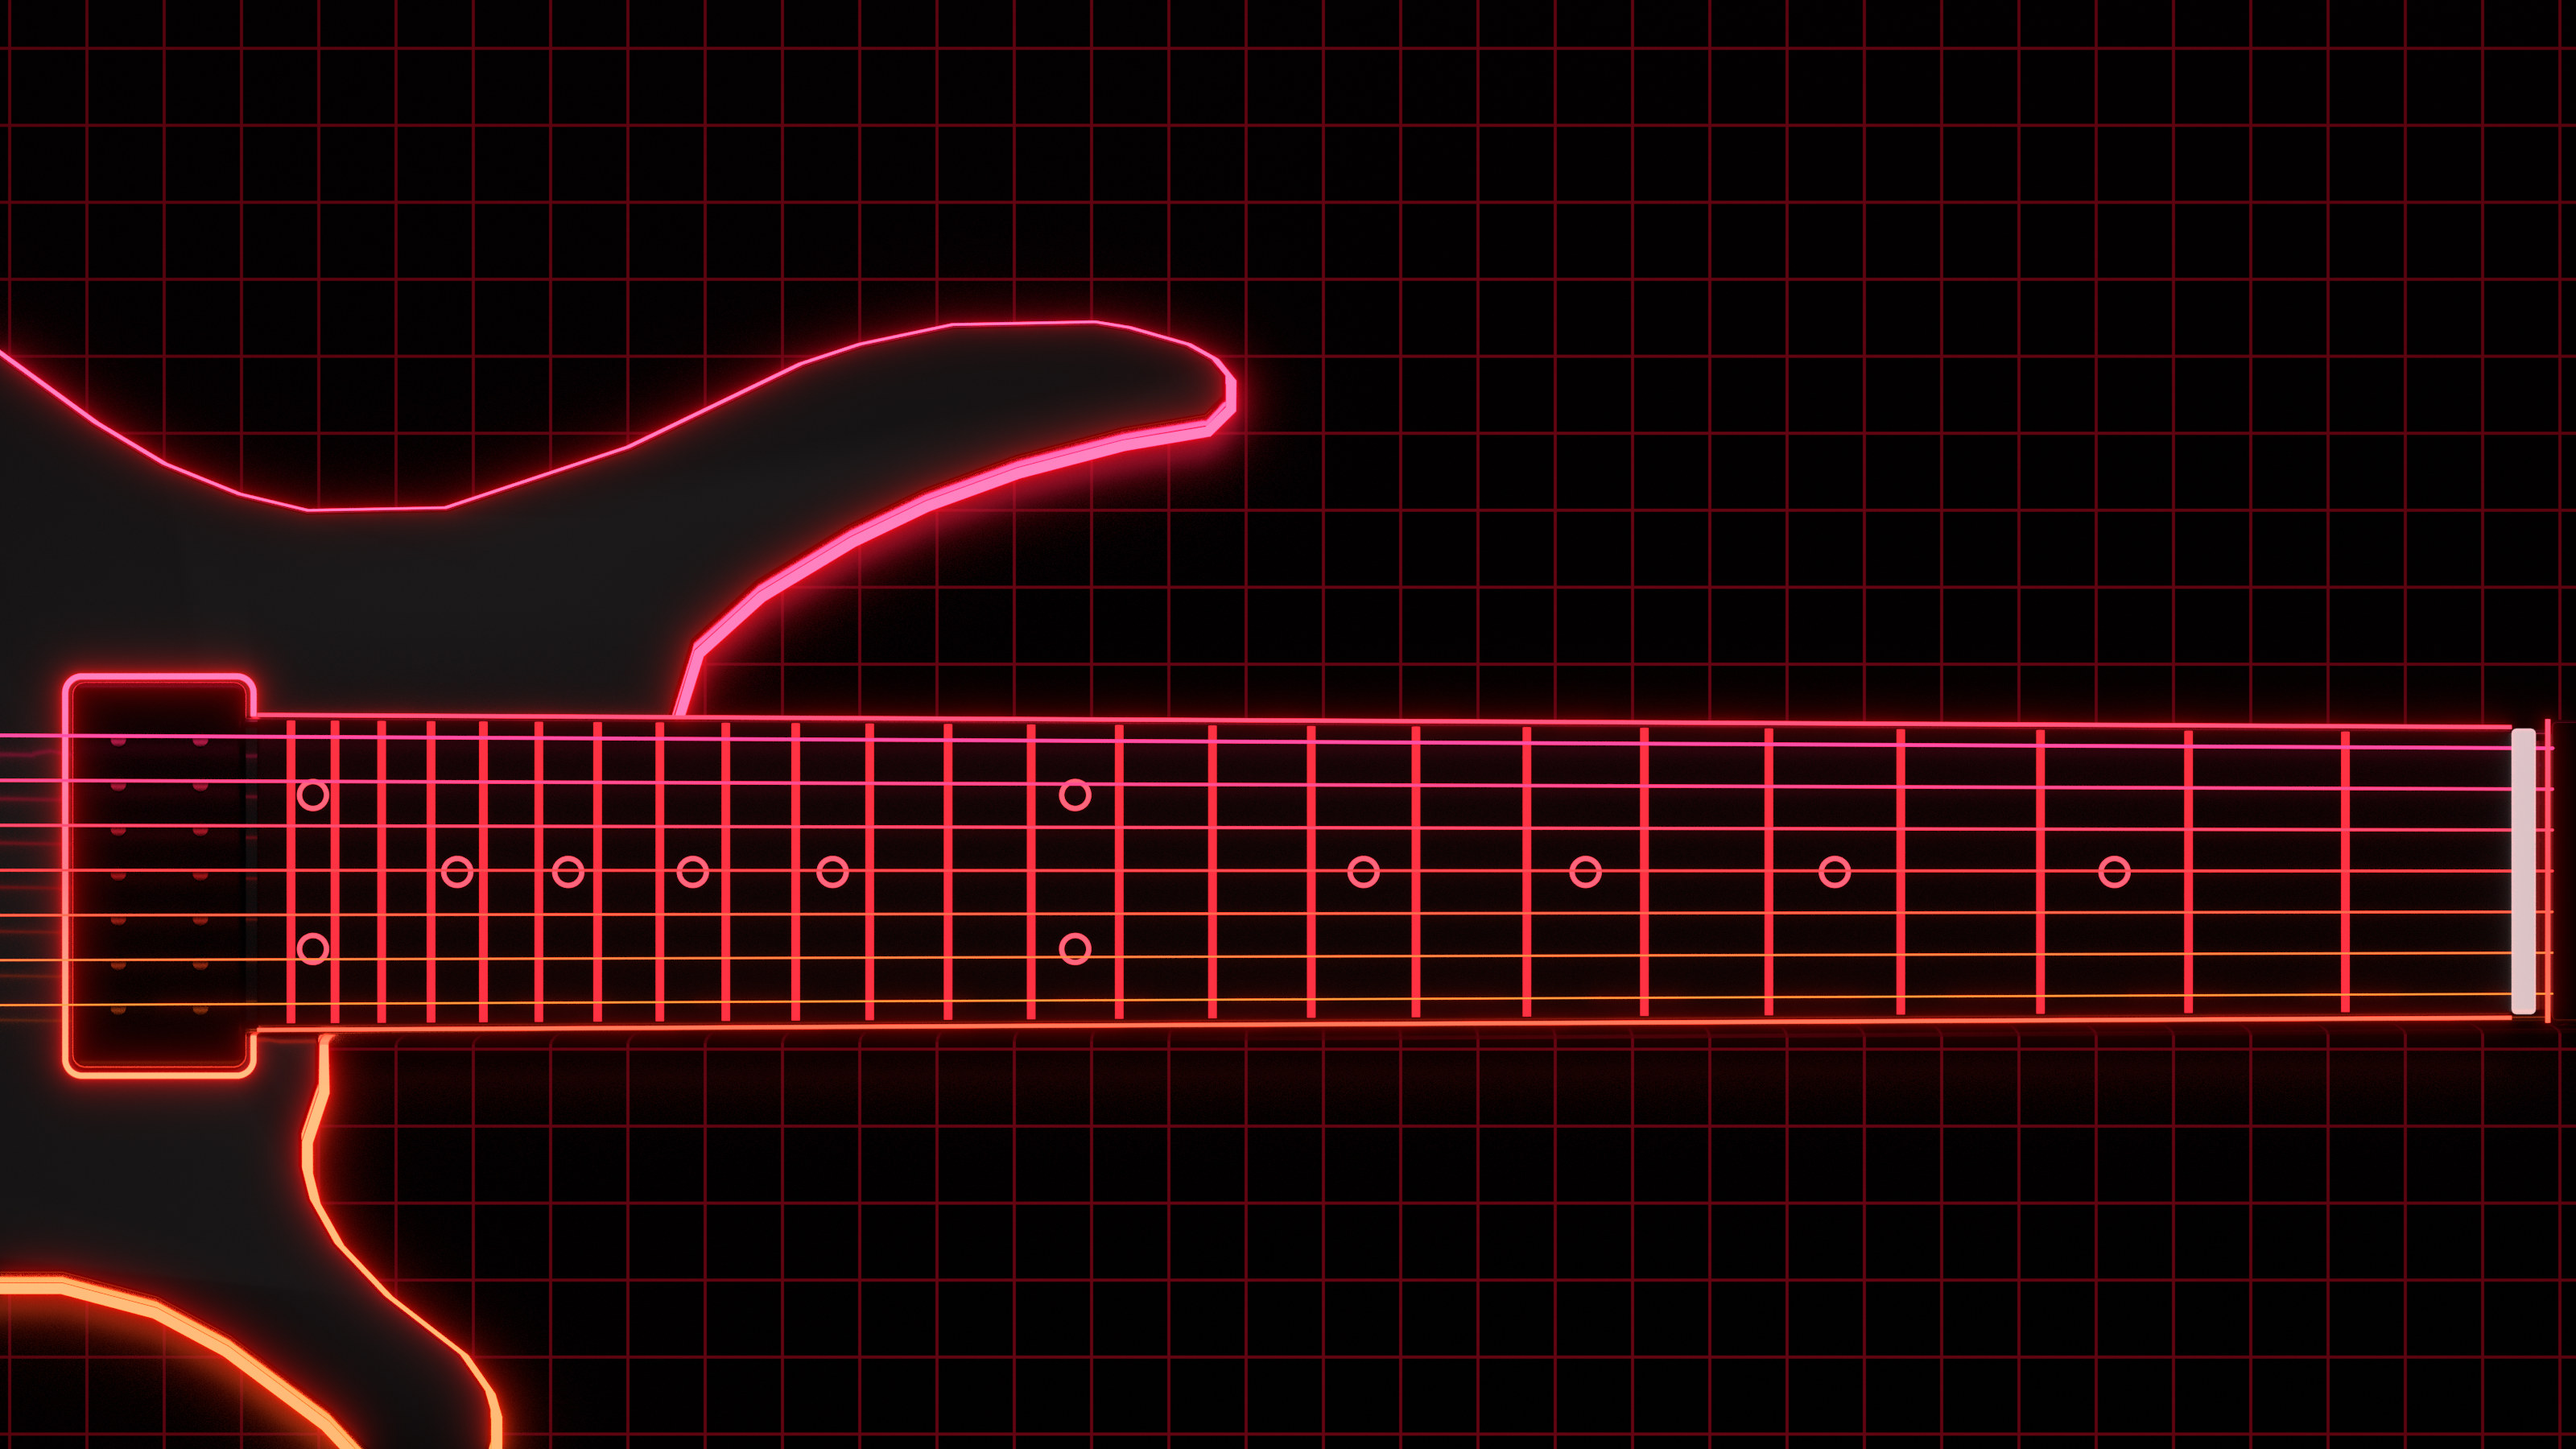
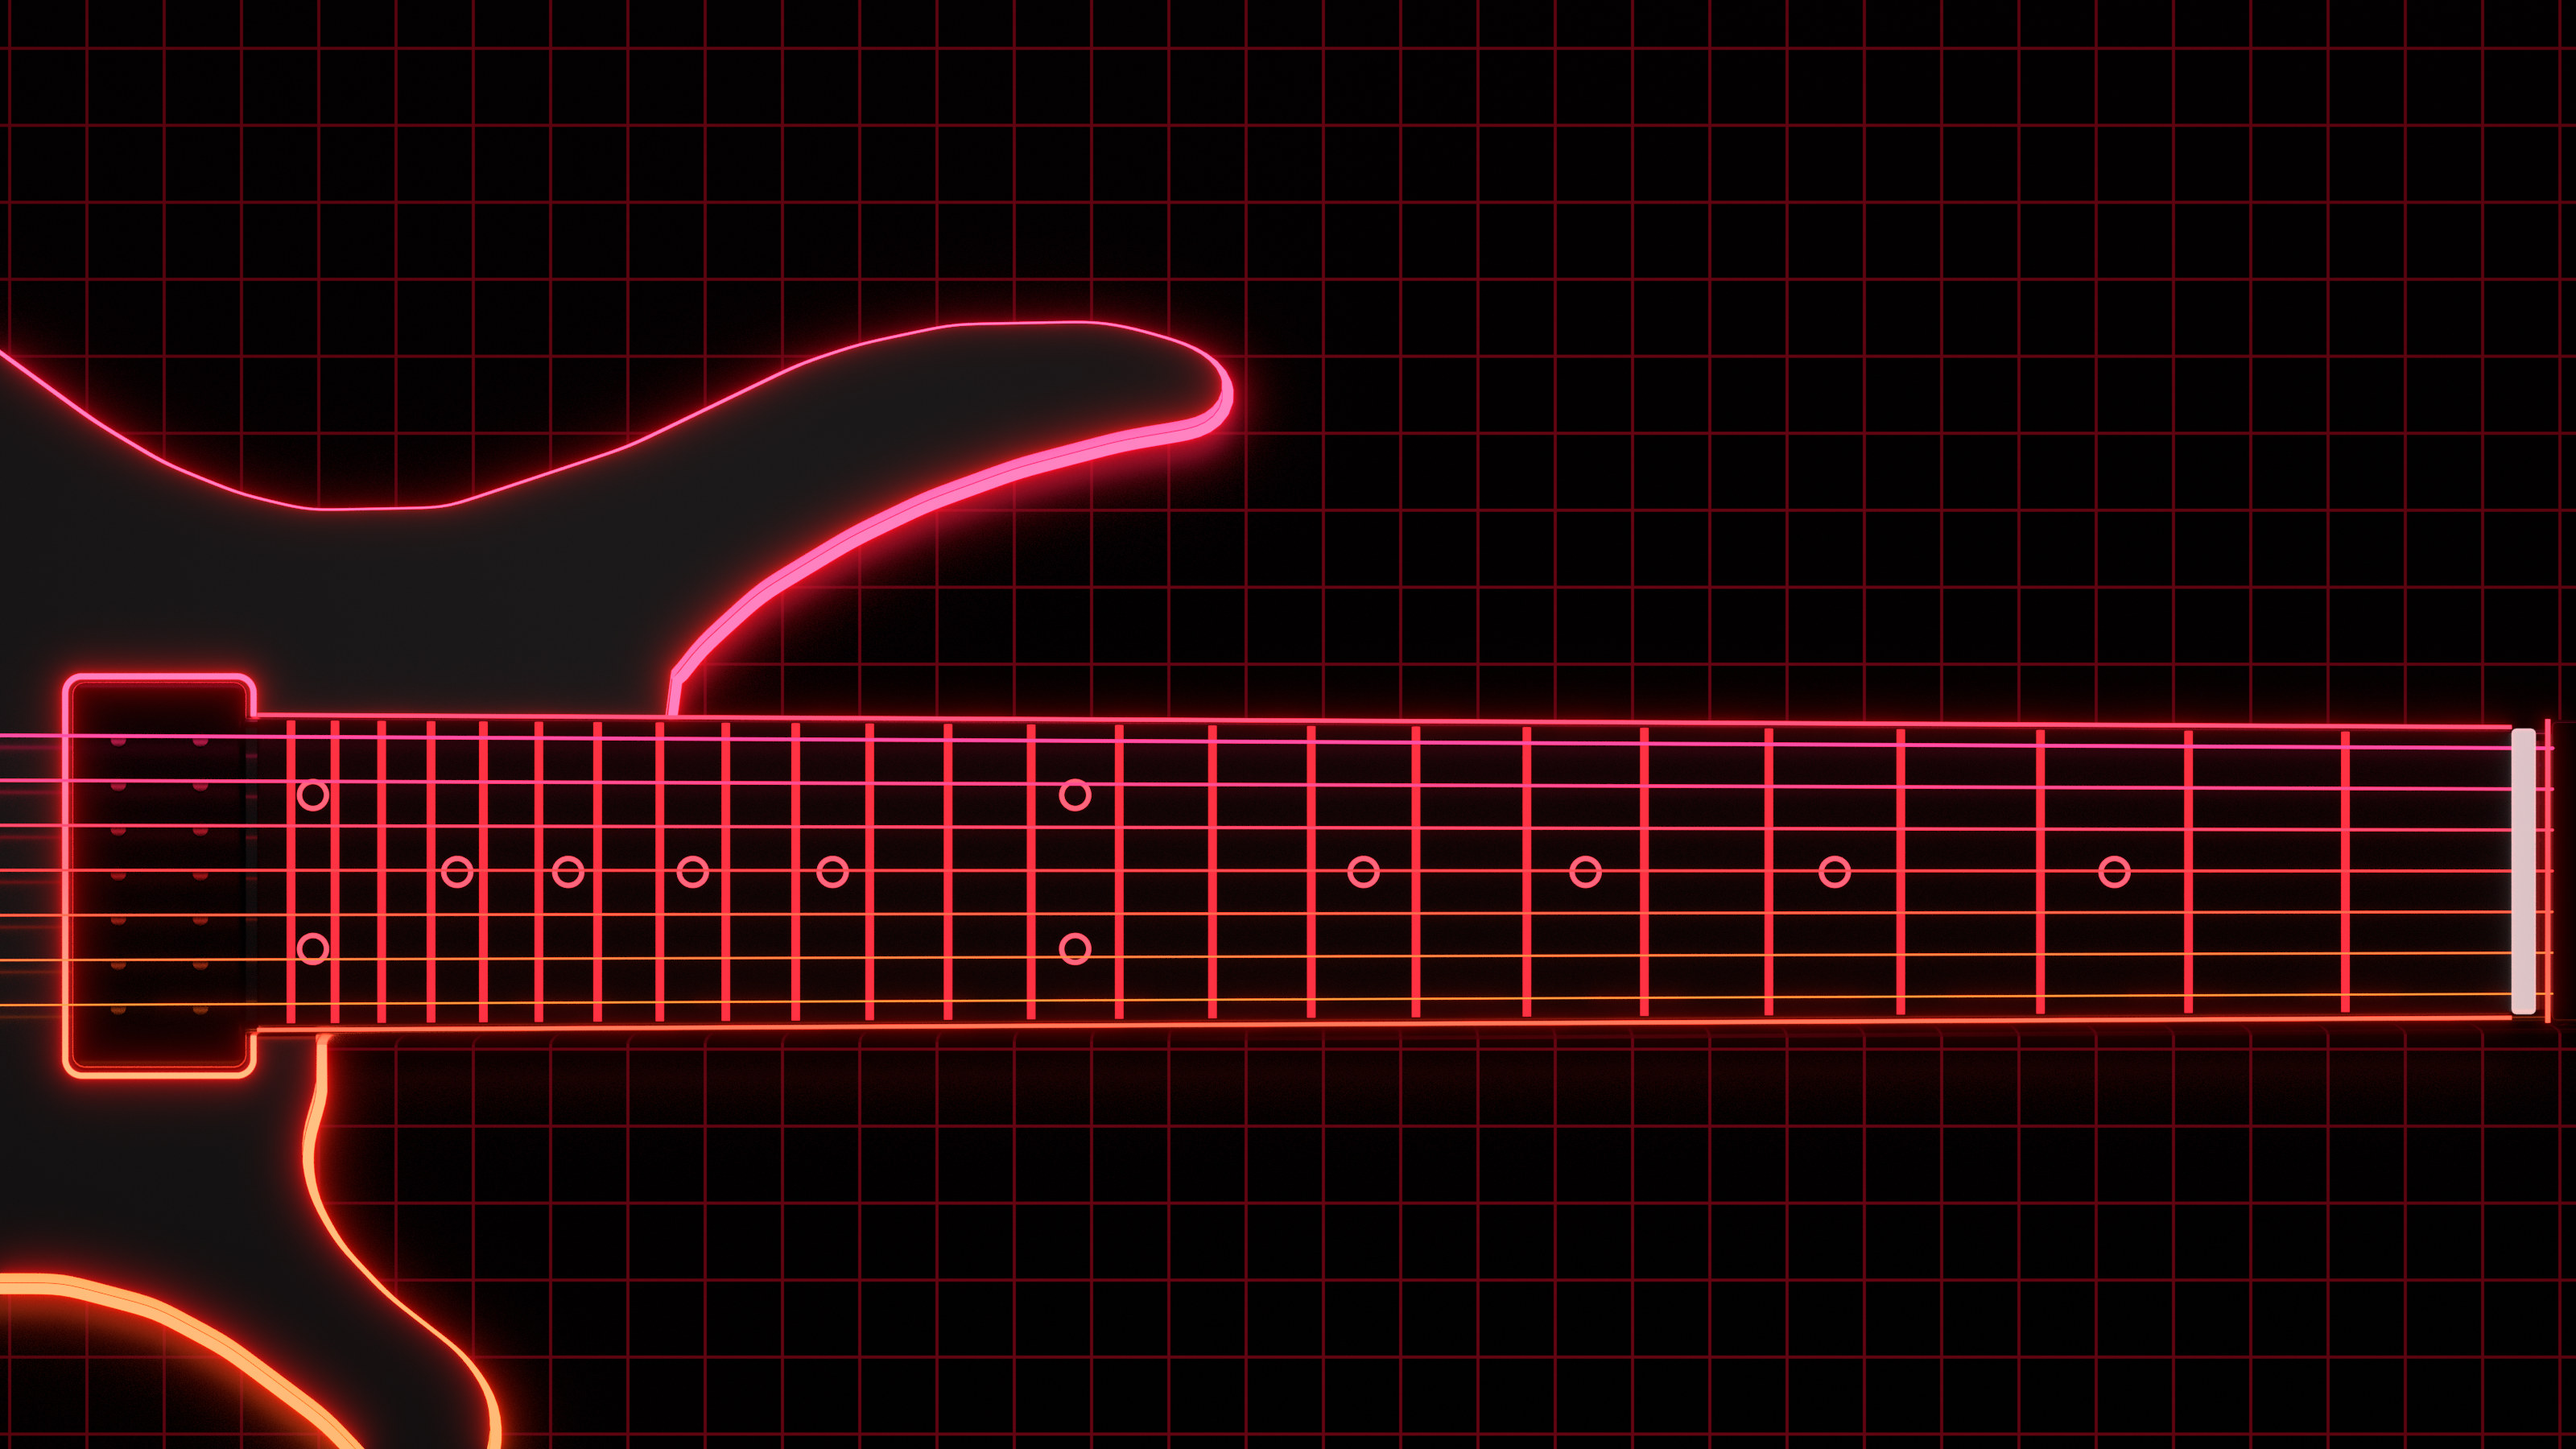
PR7-A 0.1.2: smoother body edges (as PR7-I 0.4.7)
The headless body's outline smoothed along its length as the guitar is built (guitar3d.py), the picture rendered
again. All tests, the 1 MB-stack run and pluginval pass.

Claude-Session: https://claude.ai/code/session_01DkHHwCHzQybJCknUhNQY56

diff --git a/CHANGELOG.md b/CHANGELOG.md
@@ -2,6 +2,12 @@
 
 Each version's notes appear on its GitHub Release page.
 
+## 0.1.2
+
+**Smoother body edges** (as PR7-I 0.4.7). The headless body's outline is one smooth curve now: the long horn sweeps without little corners, the tips round off as a real body's do, and the straight runs are straight.
+
+- **Why it wasn't smooth:** the trace was about 100 short straight lines, with some raggedness from the photo. It's now resampled and gently smoothed when the guitar is built.
+
 ## 0.1.1
 
 **A clean join where the body meets the neck** (as PR7-I 0.4.6). The body's glowing edge met the neck at a slant; now the long horn curves straight down onto the neck at the 17th fret, and the edge runs parallel to the fretboard.
